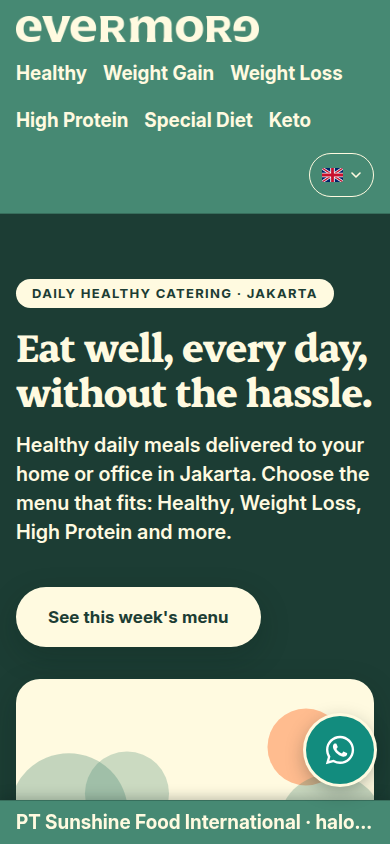
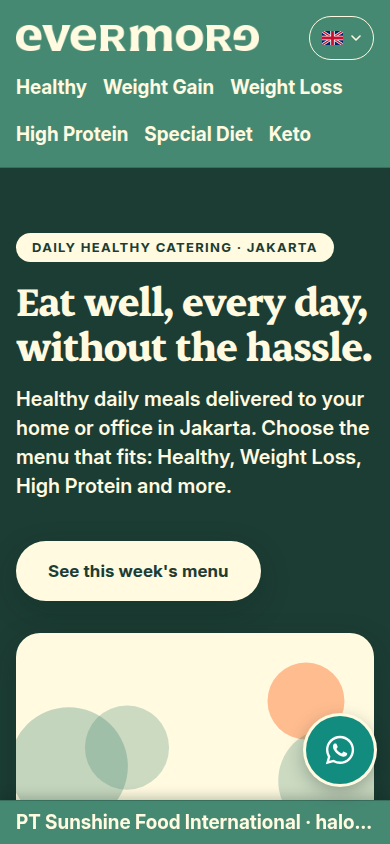
fix(ui): the language picker was orphaning onto its own row
Reported as the home page looking abnormal, and it was: below roughly 1100px
the masthead put the language picker on a line by itself, floating right with
nothing beside it. At 390px the header became four rows — logo, nav, nav,
picker — and ate about 200px before any content appeared. The app's header did
the same thing, worse: logged out it was a logo and then an orphaned flag pill
on a second row.

Both were wrapping flexboxes with the picker pushed right by margin-left:auto,
so the three children wrapped independently and the picker was always the one
to fall off. It only became the common case with the 19px/700 nav that the
mid-green bar's contrast floor requires — at the old 15px the row still fitted,
which is why the earlier screenshots looked fine.

Now both mastheads are CSS grid with explicit placement: the wordmark and the
picker always share the top row, and the nav is the only thing that may take a
second one. Single row at 80rem and up, where all three genuinely fit — the
logo is ~290px, the six nav links ~640px at 19px/700 and the picker ~230px, so
below that something has to give and it should be the nav.

Verified at 1440, 1280, 1024, 768 and 390 on the public pages and at 1024 and
390 in the app. Screenshots refreshed.

diff --git a/web/public/css/public.css b/web/public/css/public.css
@@ -87,13 +87,36 @@ a { color: inherit; text-decoration-thickness: 2px; text-underline-offset: 3px; 
  * Mid Nourish Green since the 2026-08-18 swap. Beige on it is 3.93, which is
  * AA for LARGE text only — so every string in here is --text-bar at weight
  * 700. A 15px nav link on this fill is an AA failure, not a style choice. */
+/* GRID, not a wrapping flexbox. As a flex row the three children wrapped
+   independently, so as soon as the row overflowed the language picker dropped
+   onto a line of ITS OWN, floating right with nothing beside it — at 390px
+   that cost four rows and ~200px of header before any content. The 19px/700
+   nav this bar's contrast floor requires made that overflow start at ~1100px
+   rather than at phone widths, so it was the common case, not an edge one.
+   Explicit placement means the picker is always beside the wordmark and the
+   nav is the only thing allowed to take a second row. */
 .masthead {
   background: var(--bar);
   color: var(--on-bar);
   border-bottom: 1px solid rgba(11, 30, 25, 0.25);
   padding: var(--space-4);
-  display: flex; flex-wrap: wrap; gap: var(--space-4);
-  align-items: center; justify-content: space-between;
+  display: grid;
+  grid-template-columns: 1fr auto;
+  align-items: center;
+  gap: var(--space-3) var(--space-4);
+}
+.masthead .wordmark { grid-column: 1; grid-row: 1; }
+.masthead .langpick { grid-column: 2; grid-row: 1; justify-self: end; }
+.masthead nav      { grid-column: 1 / -1; grid-row: 2; }
+
+/* One row only where all three genuinely fit. Measured rather than guessed:
+   the logo is ~290px, the six nav links ~640px at 19px/700, and the picker
+   ~230px, so below 80rem something has to give and it should be the nav
+   dropping to its own row. */
+@media (min-width: 80rem) {
+  .masthead { grid-template-columns: auto 1fr auto; }
+  .masthead nav { grid-column: 2; grid-row: 1; justify-self: start; }
+  .masthead .langpick { grid-column: 3; grid-row: 1; }
 }
 .masthead a { color: var(--on-bar); text-decoration: none; }
 .masthead nav { display: flex; flex-wrap: wrap; gap: var(--space-4); }
@@ -125,7 +148,7 @@ a { color: inherit; text-decoration-thickness: 2px; text-underline-offset: 3px; 
  * is what makes it findable by someone who has landed in a language they
  * cannot read.
  */
-.langpick { position: relative; margin-left: auto; }
+.langpick { position: relative; }
 
 .langpick > summary {
   display: inline-flex;

diff --git a/web/src/App.tsx b/web/src/App.tsx
@@ -76,8 +76,21 @@ function Nav() {
 
   return (
     <header className="bg-bar text-beige">
-      <div className="mx-auto flex max-w-6xl flex-wrap items-center gap-4 px-4 py-3">
-        <Link to="/" className="flex items-center" aria-label={t('nav.home_aria')}>
+      {/* GRID, not a wrapping flexbox — the same bug the public masthead had:
+          as a flex row the right-hand group wrapped onto a line of its own, so
+          on a phone the header was a logo, then an orphaned language pill,
+          before any content. Explicit placement keeps the picker beside the
+          wordmark and lets only the nav take a second row. xl (1280px) is the
+          same threshold the public masthead uses. */}
+      <div
+        className="mx-auto grid max-w-6xl grid-cols-[1fr_auto] items-center gap-x-4
+                   gap-y-3 px-4 py-3 xl:grid-cols-[auto_1fr_auto]"
+      >
+        <Link
+          to="/"
+          className="col-start-1 row-start-1 flex items-center"
+          aria-label={t('nav.home_aria')}
+        >
           {/* The supplied wordmark, reversed out for the dark fill. Served
               from /images by the Go server, not bundled by Vite. */}
           <img
@@ -91,7 +104,11 @@ function Nav() {
         {/* text-bar, not text-sm: beige on the mid-green bar is 3.93, which is
             AA for LARGE text only (docs/10 §2.7). */}
         {session && (
-          <nav className="flex flex-wrap gap-4 text-bar font-bold" aria-label={t('nav.aria')}>
+          <nav
+            className="col-span-full row-start-2 flex flex-wrap gap-4 text-bar font-bold
+                       xl:col-span-1 xl:col-start-2 xl:row-start-1"
+            aria-label={t('nav.aria')}
+          >
             <Link to="/menu">{t('nav.menu')}</Link>
             <Link to="/orders">{t('nav.orders')}</Link>
             <Link to="/packages">{t('nav.packages')}</Link>
@@ -102,7 +119,10 @@ function Nav() {
             {staff && <Link to="/admin/settings">{t('nav.settings')}</Link>}
           </nav>
         )}
-        <div className="ml-auto flex items-center gap-3 text-bar font-bold">
+        <div
+          className="col-start-2 row-start-1 flex items-center justify-end gap-3
+                     text-bar font-bold xl:col-start-3"
+        >
           {session ? (
             <>
               <span className="hidden md:inline">{session.full_name}</span>

diff --git a/docs/11-i18n.md b/docs/11-i18n.md
@@ -85,6 +85,13 @@ country, not a language: English is not the flag of one country, and Chinese is
 read in several. The flag is there because Steven asked for it and because it
 is a fast visual anchor; it is not what carries the meaning.
 
+**Where it sits is load-bearing too.** Both mastheads are CSS grid with the
+picker explicitly placed beside the wordmark, and only the nav allowed to take
+a second row. As wrapping flexboxes they orphaned the picker onto a line of its
+own the moment the row overflowed — which, with the 19px/700 nav the mid-green
+bar's contrast floor requires, happened from about 1100px down, not just on
+phones. One row at ≥80rem, two below.
+
 The public selector is a `<details>` disclosure with no JavaScript at all — the
 CSP has no `'unsafe-inline'` and the marketing pages ship no bundle, and a
 disclosure widget is keyboard-operable and announced as expandable for free.
